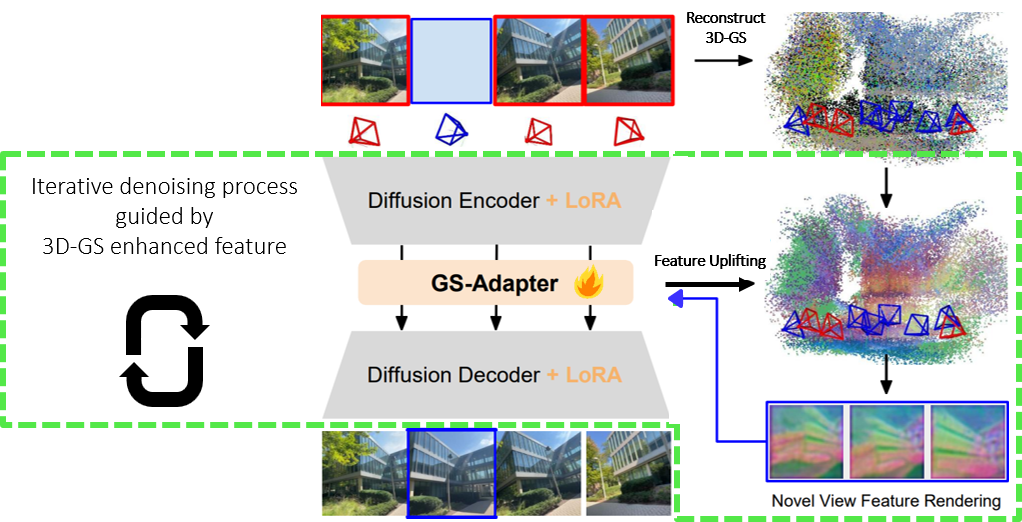
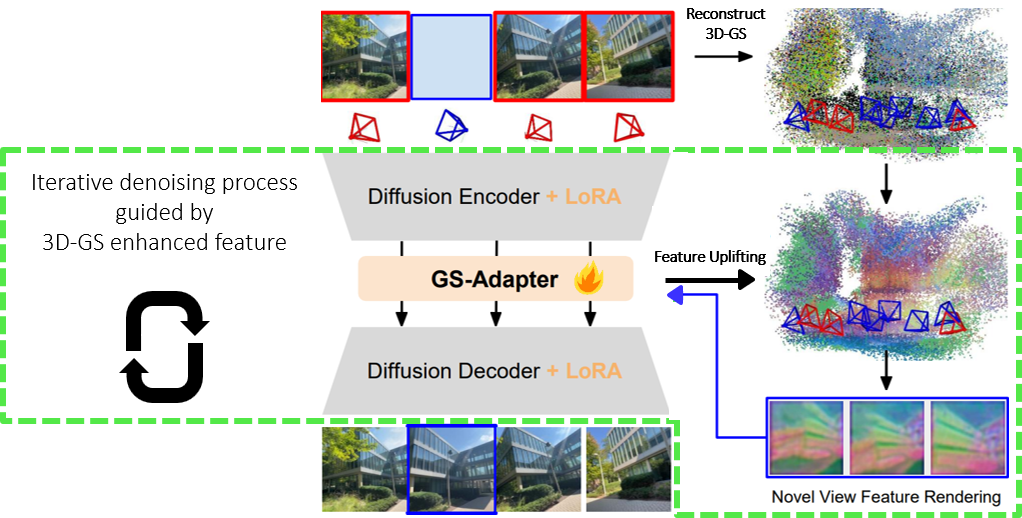
Update the method teaser

diff --git a/README.md b/README.md
@@ -16,9 +16,9 @@ Minjun Kang<sup>1</sup>, Inkyu Shin<sup>2</sup>, Taeyeop Lee<sup>1</sup>, Myungc
 </div>
 
 The GS-Adapter reconstructs 3D Gaussians from the input views, uplifts the
-diffusion features onto them, and renders them into every target view, so the
-backbone is conditioned on geometry in feature space. Only the adapter and the
-LoRA layers are trained.
+diffusion features onto them, and renders them into every target view, so every
+denoising step is guided by the 3D-GS enhanced feature. Only the adapter and the
+LoRA layers are trained; the diffusion backbone stays frozen.
 
 ---
 
